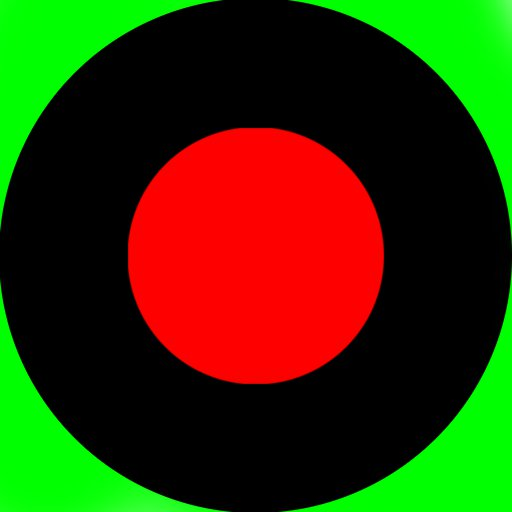
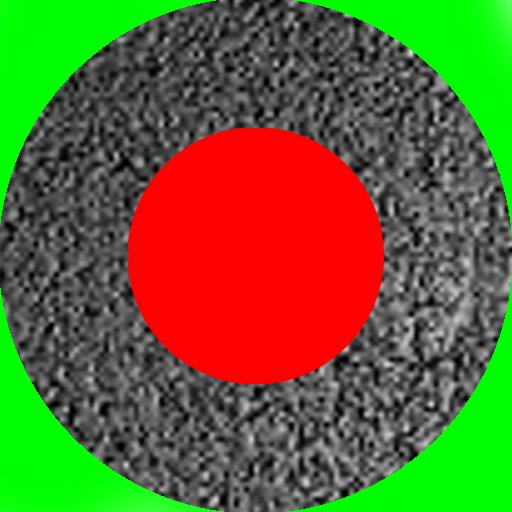
Updated WebGL code, perspective, enabled “racing”

diff --git a/WebRTC_Data/gameGL.js b/WebRTC_Data/gameGL.js
@@ -7,8 +7,8 @@ var camera = mat4.create();
 var mvMatrix = mat4.create();
 var pMatrix = mat4.create();
 
-var p1XY = new Float32Array([ 0, 0.5, 180 ]);
-var p2XY = new Float32Array([ 0, 0.5, 180 ]);
+var p1XY = new Float32Array([ 0, 0.75, 180 ]);
+var p2XY = new Float32Array([ 0, 0.75, 180 ]);
 
 var previousT = -1;
 var keyboardBuffer = [];
@@ -25,96 +25,97 @@ var fragment_shader_src = "precision mediump float;"
 		+ "void main(void)"
 		+ "{"
 		+ "  vec4 textureColor = texture2D(uSampler, vec2(vTextureCoord.s, 1.0 - vTextureCoord.t));"
-		//+ "  gl_FragColor = textureColor;"
-		+ "  gl_FragColor = vec4(1.,1.,1.,0);"
+		+ "  gl_FragColor = textureColor;"
+		// + " gl_FragColor = vec4(1.,1.,1.,0);"
 		+ "}";
 
 var vertext_shader_src = "precision mediump float;"
 		+ "precision mediump int;  "
 
-		+ "attribute vec3 aVertexPosition;"
-		+ "attribute vec2 aTextureCoord;"
+		+ "attribute vec3 aVertexPosition;" + "attribute vec2 aTextureCoord;"
 
-		+ "uniform mat4 uMVMatrix;"
-		+ "uniform mat4 uPMatrix;"
+		+ "uniform mat4 uMVMatrix;" + "uniform mat4 uPMatrix;"
 
 		+ "varying vec2 vTextureCoord;"
 
-		+ "void main(void)"
-		+ "{"
+		+ "void main(void)" + "{"
 		+ "  gl_Position = uPMatrix * uMVMatrix * vec4(aVertexPosition, 1.0);"
-		+ "  vTextureCoord = aTextureCoord;"
-		+ "}";
+		+ "  vTextureCoord = aTextureCoord;" + "}";
 
-function GL_Texture(linear)
-{
-  this.TEXTURE_ID = gl.createTexture();
-  this.src = "";
-  this.bind = function(uSamplerIDX,channel,channel_index)
-  {
-    gl.activeTexture(channel);
-    gl.bindTexture(gl.TEXTURE_2D, this.TEXTURE_ID);
-    gl.uniform1i(uSamplerIDX, channel_index);
-  }
-  var TEXID = this.TEXTURE_ID;
-  this.load=function(IMG)
-  {
-    this.src = IMG.src;
-    gl.bindTexture(gl.TEXTURE_2D, TEXID);
-    gl.texImage2D(gl.TEXTURE_2D, 0, gl.RGBA, gl.RGBA, gl.UNSIGNED_BYTE, IMG);
-    //gl.generateMipmap(gl.TEXTURE_2D);
-    if(linear==null)
-      gl.texParameteri(gl.TEXTURE_2D, gl.TEXTURE_MAG_FILTER, gl.NEAREST);
-    else
-      gl.texParameteri(gl.TEXTURE_2D, gl.TEXTURE_MAG_FILTER, gl.LINEAR);
-    gl.texParameteri(gl.TEXTURE_2D, gl.TEXTURE_MIN_FILTER, gl.NEAREST);
-    gl.bindTexture(gl.TEXTURE_2D, null);
-  };
+function GL_Texture(linear) {
+	this.TEXTURE_ID = gl.createTexture();
+	this.src = "";
+	this.bind = function(uSamplerIDX, channel, channel_index) {
+		gl.activeTexture(channel);
+		gl.bindTexture(gl.TEXTURE_2D, this.TEXTURE_ID);
+		gl.uniform1i(uSamplerIDX, channel_index);
+	}
+	var TEXID = this.TEXTURE_ID;
+	this.load = function(IMG) {
+		this.src = IMG.src;
+		gl.bindTexture(gl.TEXTURE_2D, TEXID);
+		gl
+				.texImage2D(gl.TEXTURE_2D, 0, gl.RGBA, gl.RGBA,
+						gl.UNSIGNED_BYTE, IMG);
+		// gl.generateMipmap(gl.TEXTURE_2D);
+		if (linear == null)
+			gl.texParameteri(gl.TEXTURE_2D, gl.TEXTURE_MAG_FILTER, gl.NEAREST);
+		else
+			gl.texParameteri(gl.TEXTURE_2D, gl.TEXTURE_MAG_FILTER, gl.LINEAR);
+		gl.texParameteri(gl.TEXTURE_2D, gl.TEXTURE_MIN_FILTER, gl.NEAREST);
+		gl.bindTexture(gl.TEXTURE_2D, null);
+	};
 }
 
 function initGL(canvas) {
-  try {
-    gl = canvas.getContext("experimental-webgl");
-    gl.viewportWidth = canvas.width;
-    gl.viewportHeight = canvas.height;
-  } catch (e) {
-  }
-  if (!gl) {
-    alert("Could not initialise WebGL, sorry :-(");
-  }
+	try {
+		gl = canvas.getContext("experimental-webgl");
+		gl.viewportWidth = canvas.width;
+		gl.viewportHeight = canvas.height;
+	} catch (e) {
+	}
+	if (!gl) {
+		alert("Could not initialise WebGL, sorry :-(");
+	}
 }
 function getShader(gl, shaderScript, type) {
-  var shader = gl.createShader(type);
+	var shader = gl.createShader(type);
 
-  gl.shaderSource(shader, shaderScript);
-  gl.compileShader(shader);
-  if (!gl.getShaderParameter(shader, gl.COMPILE_STATUS)) {
-    alert(gl.getShaderInfoLog(shader));
-    return null;
-  }
-  return shader;
+	gl.shaderSource(shader, shaderScript);
+	gl.compileShader(shader);
+	if (!gl.getShaderParameter(shader, gl.COMPILE_STATUS)) {
+		alert(gl.getShaderInfoLog(shader));
+		return null;
+	}
+	return shader;
 }
 var shaderProgram;
 function initShaders() {
-  var fragmentShader = getShader(gl, fragment_shader_src, gl.FRAGMENT_SHADER);
-  var vertexShader = getShader(gl, vertext_shader_src, gl.VERTEX_SHADER);
-  shaderProgram = gl.createProgram();
-  gl.attachShader(shaderProgram, vertexShader);
-  gl.attachShader(shaderProgram, fragmentShader);
-  gl.linkProgram(shaderProgram);
-  if (!gl.getProgramParameter(shaderProgram, gl.LINK_STATUS)) {
-    alert("Could not initialise shaders");
-  }
-  gl.useProgram(shaderProgram);
-  shaderProgram.vertexPositionAttribute = gl.getAttribLocation(shaderProgram, "aVertexPosition");
-  shaderProgram.vertexTextureAttribute = gl.getAttribLocation(shaderProgram, "aTextureCoord");
-  gl.enableVertexAttribArray(shaderProgram.vertexPositionAttribute);
-  gl.enableVertexAttribArray(shaderProgram.vertexTextureAttribute);
+	var fragmentShader = getShader(gl, fragment_shader_src, gl.FRAGMENT_SHADER);
+	var vertexShader = getShader(gl, vertext_shader_src, gl.VERTEX_SHADER);
+	shaderProgram = gl.createProgram();
+	gl.attachShader(shaderProgram, vertexShader);
+	gl.attachShader(shaderProgram, fragmentShader);
+	gl.linkProgram(shaderProgram);
+	if (!gl.getProgramParameter(shaderProgram, gl.LINK_STATUS)) {
+		alert("Could not initialise shaders");
+	}
+	gl.useProgram(shaderProgram);
+	shaderProgram.vertexPositionAttribute = gl.getAttribLocation(shaderProgram,
+			"aVertexPosition");
+	shaderProgram.vertexTextureAttribute = gl.getAttribLocation(shaderProgram,
+			"aTextureCoord");
 
-  shaderProgram.pMatrixUniform = gl.getUniformLocation(shaderProgram, "uPMatrix");
-  shaderProgram.mvMatrixUniform = gl.getUniformLocation(shaderProgram, "uMVMatrix");
+	gl.enableVertexAttribArray(shaderProgram.vertexPositionAttribute);
+	gl.enableVertexAttribArray(shaderProgram.vertexTextureAttribute);
+
+	shaderProgram.pMatrixUniform = gl.getUniformLocation(shaderProgram,
+			"uPMatrix");
+	shaderProgram.mvMatrixUniform = gl.getUniformLocation(shaderProgram,
+			"uMVMatrix");
+	shaderProgram.textureSampler = gl.getUniformLocation(shaderProgram,
+			"uSampler")
 }
-
 
 function gameKeyDown(e) {
 	keyboardBuffer[e.keyCode] = true;
@@ -128,21 +129,21 @@ function updateLogic(deltaT) {
 	var updatedPos = false;
 	var updatedRot = false;
 	if (keyboardBuffer[KEY_A]) {
-		p1XY[2] -= 3;
-		updatedPos = true;
+		p1XY[2] += 2;
+		updatedRot = true;
 	}
 	if (keyboardBuffer[KEY_D]) {
-		p1XY[2] += 3;
-		updatedPos = true;
+		p1XY[2] -= 2;
+		updatedRot = true;
 	}
 	var velocity = 0;
 	if (keyboardBuffer[KEY_W]) {
-		velocity += .2;
-		updatedRot = true;
+		velocity += .750;
+		updatedPos = true;
 	}
 	if (keyboardBuffer[KEY_S]) {
-		velocity -= .2;
-		updatedRot = true;
+		velocity -= .750;
+		updatedPos = true;
 	}
 	var dX = Math.cos(p1XY[2] / 180 * Math.PI);
 	var dY = Math.sin(p1XY[2] / 180 * Math.PI);
@@ -150,7 +151,7 @@ function updateLogic(deltaT) {
 	var nextX = p1XY[0] + dX * velocity * deltaT;
 	var nextY = p1XY[1] + dY * velocity * deltaT;
 	var dist = nextX * nextX + nextY * nextY;
-	if (dist < 1 && dist > 0.125) {
+	if (dist < 1 && dist > 0.25) {
 		p1XY[0] = nextX;
 		p1XY[1] = nextY;
 	} else {
@@ -160,86 +161,86 @@ function updateLogic(deltaT) {
 }
 
 var world = {
-	vertex:  [[1,1,0], [1,-1,0], [-1,1,0], [-1,1,0], [1,-1,0], [-1, -1, 0]],
-	texture: [[1,1]  , [1,0]   , [0,1]   , [0,1]   , [1,0]   , [0,0]]
+	vertex : [ [ 1, 1, 0 ], [ 1, -1, 0 ], [ -1, 1, 0 ], [ -1, 1, 0 ],
+			[ 1, -1, 0 ], [ -1, -1, 0 ] ],
+	texture : [ [ 1, 1 ], [ 1, 0 ], [ 0, 1 ], [ 0, 1 ], [ 1, 0 ], [ 0, 0 ] ]
 };
 var ship = {
-		vertex:  [[1,1,0], [1,-1,0], [-1,1,0], [-1,1,0], [1,-1,0], [-1, -1, 0]],
-		texture: [[1,1]  , [1,0]   , [0,1]   , [0,1]   , [1,0]   , [0,0]]
+	vertex : [ [ 0, 1, 0 ], [ 1, -1, 0 ], [ 0, -0.75, .125 ], [ 0, 1, 0 ],
+			[ 0, -0.75, .125 ], [ -1, -1, 0 ] ],
+	texture : [ [ 1, 1 ], [ 1, 0 ], [ 0, 1 ], [ 0, 1 ], [ 1, 0 ], [ 0, 0 ] ]
 };
 
 function initBuf(buffer, scale) {
 	var obj = gl.createBuffer();
 	gl.bindBuffer(gl.ARRAY_BUFFER, obj);
-	
+
 	var array_buffer = new Float32Array(buffer.length * buffer[0].length);
 	var index = 0;
-	for(var i=0;i<buffer.length;i++) {
-		for(var j=0;j<buffer[i].length;j++) {
-			array_buffer[index++] = buffer[i][j]*scale;
+	for ( var i = 0; i < buffer.length; i++) {
+		for ( var j = 0; j < buffer[i].length; j++) {
+			array_buffer[index++] = buffer[i][j] * scale;
 		}
 	}
-	
+
 	gl.bufferData(gl.ARRAY_BUFFER, array_buffer, gl.STATIC_DRAW);
 	return obj;
 }
 
 function initModels() {
-	world.pos = initBuf(world.vertex,1);
-	world.uv = initBuf(world.texture,1);
+	world.pos = initBuf(world.vertex, 1);
+	world.uv = initBuf(world.texture, 1);
 	world.num_vertex = 6;
-	
-	ship.pos = initBuf(world.vertex,.1);
-	ship.uv = initBuf(world.texture,.1);
+
+	ship.pos = initBuf(ship.vertex, .04);
+	ship.uv = initBuf(ship.texture, .1);
 	ship.num_vertex = 6;
-	
+
 	world.tex = new GL_Texture(false);
 	var img = new Image();
 	img.src = "map.jpg";
 	img.onload = function() {
-		//world.tex.load(this);
+		world.tex.load(this);
 	}
 }
 
-
 function drawMap() {
 	mat4.identity(mvMatrix);
-    mat4.translate(mvMatrix, mvMatrix, [
-                                        0, 0, 0
-                                    ]);
-    mat4.multiply(mvMatrix,camera,mvMatrix);
+	mat4.translate(mvMatrix, mvMatrix, [ 0, 0, 0 ]);
+	mat4.multiply(mvMatrix, camera, mvMatrix);
 
-    gl.uniformMatrix4fv(shaderProgram.mvMatrixUniform, false, mvMatrix);
+	gl.uniformMatrix4fv(shaderProgram.mvMatrixUniform, false, mvMatrix);
 
-    gl.bindBuffer(gl.ARRAY_BUFFER, world.pos);
-    gl.vertexAttribPointer(shaderProgram.vertexPositionAttribute, 3, gl.FLOAT, false, 0, 0);
-    
-    gl.bindBuffer(gl.ARRAY_BUFFER, world.uv);
-    gl.vertexAttribPointer(shaderProgram.vertexTextureAttribute, 2, gl.FLOAT, false, 0, 0);
+	gl.bindBuffer(gl.ARRAY_BUFFER, world.pos);
+	gl.vertexAttribPointer(shaderProgram.vertexPositionAttribute, 3, gl.FLOAT,
+			false, 0, 0);
 
-    gl.drawArrays(gl.LINE_STRIP, 0, world.num_vertex);
+	gl.bindBuffer(gl.ARRAY_BUFFER, world.uv);
+	gl.vertexAttribPointer(shaderProgram.vertexTextureAttribute, 2, gl.FLOAT,
+			false, 0, 0);
+
+	world.tex.bind(shaderProgram.textureSampler, 0, 0);
+	gl.drawArrays(gl.TRIANGLES, 0, world.num_vertex);
 }
-
 
 function drawObj(dat) {
 	mat4.identity(mvMatrix);
-    mat4.translate(mvMatrix, mvMatrix, [
-                                        dat[0], dat[1], 0.00
-                                    ]);
-    mat4.rotate(mvMatrix,mvMatrix,dat[2]/180 * Math.PI, [0,0,1]);
-    mat4.multiply(mvMatrix,camera,mvMatrix);
+	mat4.translate(mvMatrix, mvMatrix, [ dat[0], dat[1], 0.00 ]);
+	mat4.rotate(mvMatrix, mvMatrix, (dat[2]-90) / 180 * Math.PI, [ 0, 0, 1 ]);
+	mat4.multiply(mvMatrix, camera, mvMatrix);
 
-    gl.uniformMatrix4fv(shaderProgram.mvMatrixUniform, false, mvMatrix);
+	gl.uniformMatrix4fv(shaderProgram.mvMatrixUniform, false, mvMatrix);
 
-    gl.bindBuffer(gl.ARRAY_BUFFER, ship.pos);
-    gl.vertexAttribPointer(shaderProgram.vertexPositionAttribute, 3, gl.FLOAT, false, 0, 0);
-    
-    gl.bindBuffer(gl.ARRAY_BUFFER, ship.uv);
-    gl.vertexAttribPointer(shaderProgram.vertexTextureAttribute, 2, gl.FLOAT, false, 0, 0);
+	gl.bindBuffer(gl.ARRAY_BUFFER, ship.pos);
+	gl.vertexAttribPointer(shaderProgram.vertexPositionAttribute, 3, gl.FLOAT,
+			false, 0, 0);
 
-    gl.drawArrays(gl.LINE_STRIP, 0, ship.num_vertex);
+	gl.bindBuffer(gl.ARRAY_BUFFER, ship.uv);
+	gl.vertexAttribPointer(shaderProgram.vertexTextureAttribute, 2, gl.FLOAT,
+			false, 0, 0);
+
+	gl.drawArrays(gl.TRIANGLES, 0, ship.num_vertex);
 }
-
 
 function gameDraw(t) {
 	var px, py, dirX, dirY;
@@ -252,19 +253,21 @@ function gameDraw(t) {
 	}
 	previousT = t;
 
-    gl.viewport(0, 0, gl.viewportWidth, gl.viewportHeight);
-    gl.clear(gl.COLOR_BUFFER_BIT | gl.DEPTH_BUFFER_BIT);
+	gl.viewport(0, 0, gl.viewportWidth, gl.viewportHeight);
+	gl.clear(gl.COLOR_BUFFER_BIT | gl.DEPTH_BUFFER_BIT);
 
+	mat4.perspective(pMatrix, 45, gl.viewportWidth / gl.viewportHeight, 0.01,
+			300.0);
+	gl.uniformMatrix4fv(shaderProgram.pMatrixUniform, false, pMatrix);
 
-    mat4.perspective(pMatrix, 45, gl.viewportWidth / gl.viewportHeight, 0.1, 100.0);
-    gl.uniformMatrix4fv(shaderProgram.pMatrixUniform, false, pMatrix);
-    
-	var dX = Math.cos(p1XY[2] / 180 * Math.PI);
-	var dY = Math.sin(p1XY[2] / 180 * Math.PI);
-	
-    mat4.lookAt(camera, [p1XY[0]-dX,p1XY[1]-dY,.25], [p1XY[0],p1XY[1],0], [0,0,1])
-    drawMap();
-    drawObj(p1XY);
+	var dX = Math.cos(p1XY[2] / 180 * Math.PI) * 0.16;
+	var dY = Math.sin(p1XY[2] / 180 * Math.PI) * 0.16;
+
+	mat4.lookAt(camera, [ p1XY[0] - dX, p1XY[1] - dY, .05 ], [ p1XY[0] + dX,
+			p1XY[1] + dY, 0 ], [ 0, 0, 1 ])
+	drawMap();
+	drawObj(p1XY);
+	drawObj(p2XY);
 
 	requestAnimationFrame(gameDraw);
 }

diff --git a/WebRTC_Data/index.html b/WebRTC_Data/index.html
@@ -88,8 +88,8 @@ $(function() {
   $('#btnOffer').click(createOffer);
   $('#btnAnswer').click(queryOffer);
   
-  PeerConAnswer = new WebRTC_AnswerConnection();
-  connected();
+  //PeerConAnswer = new WebRTC_AnswerConnection();
+  //connected();
 });
 </script>
 </body>
